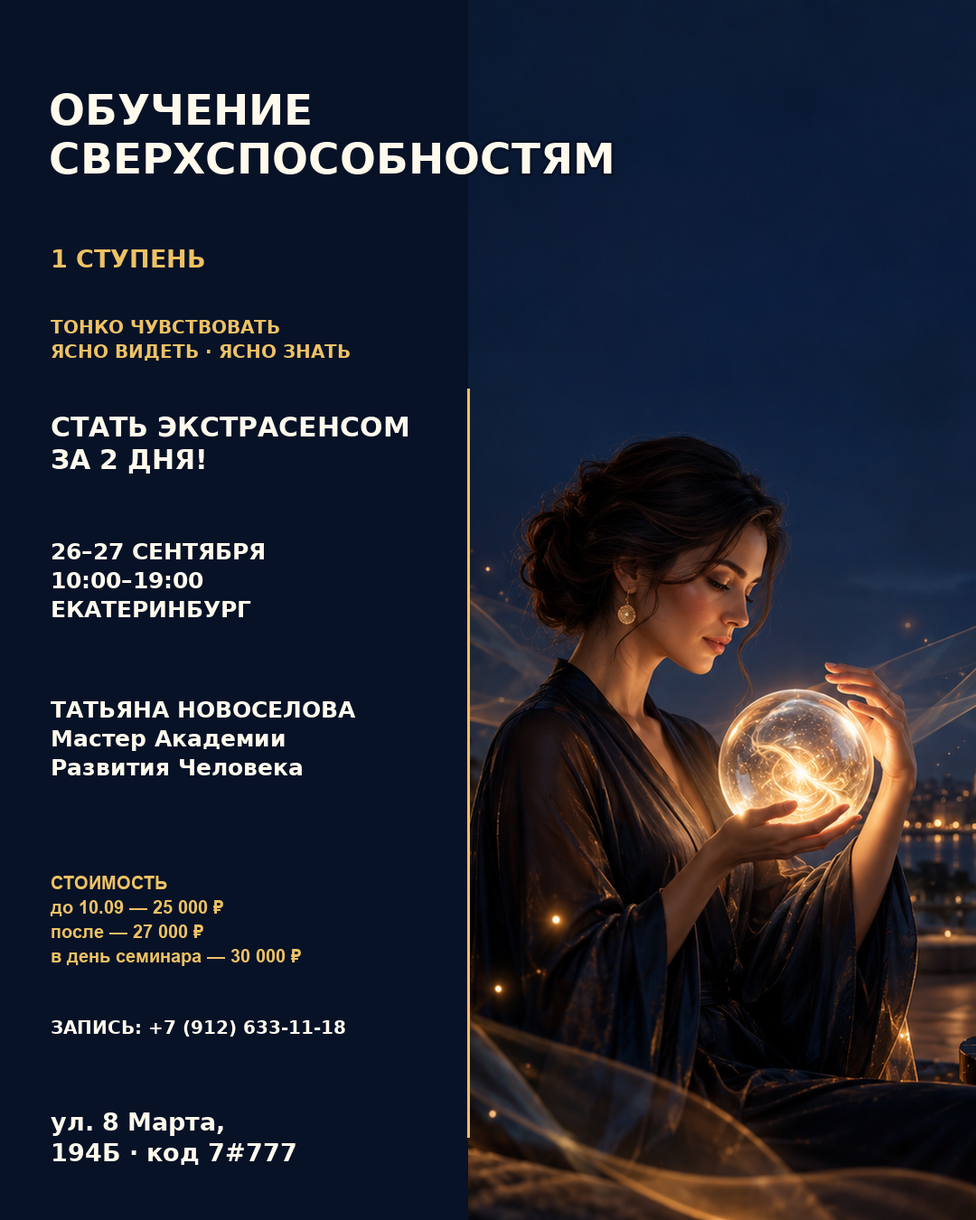
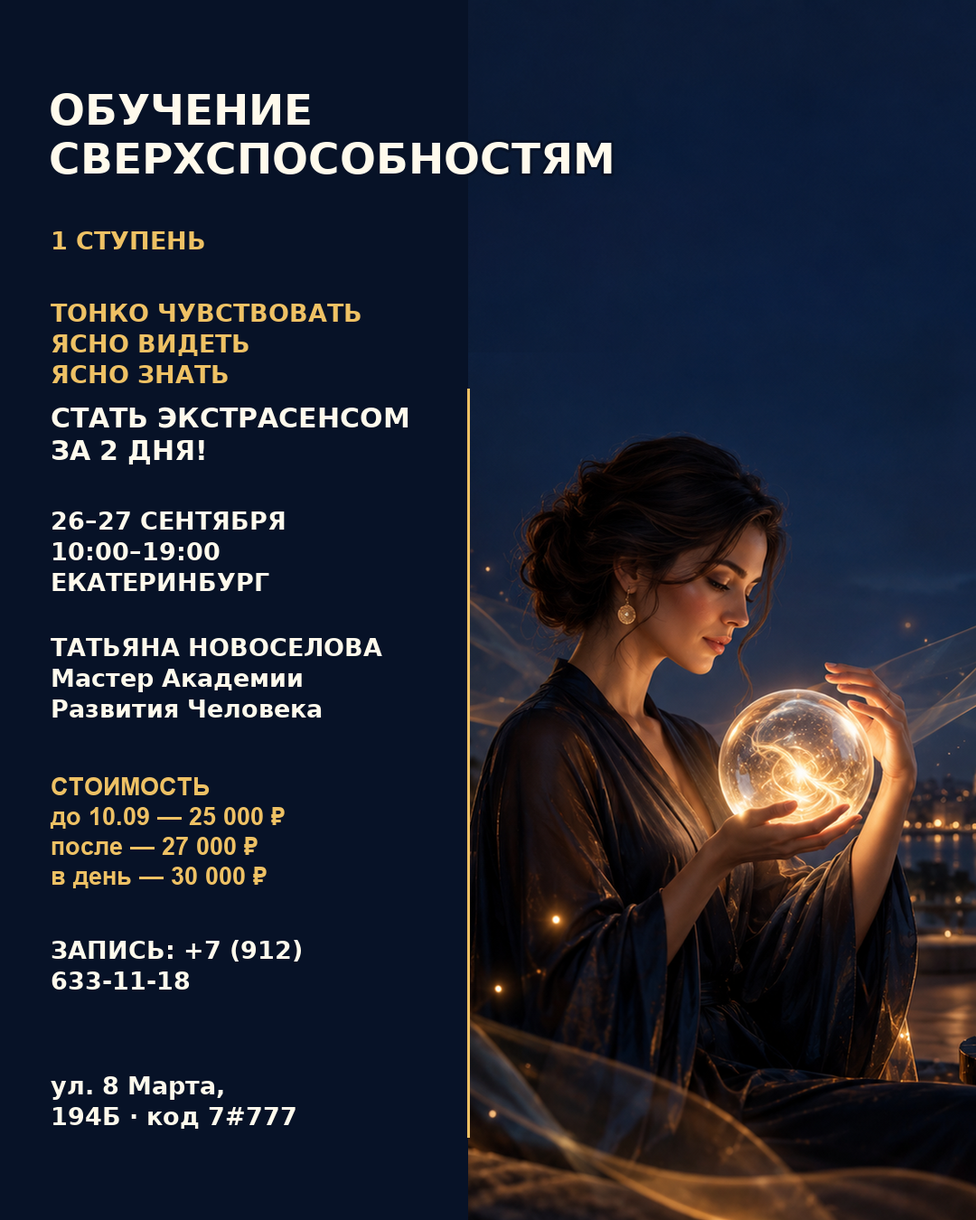
Raise informational poster minimum type size

Changed region(s): [[0.0306, 0.2489, 0.4278, 0.9644], [0.0306, 0.1867, 0.2139, 0.2178]]

diff --git a/scripts/build_layout_comparison_posters.py b/scripts/build_layout_comparison_posters.py
@@ -184,14 +184,14 @@ def diptych_headline_bleed() -> None:
     cream, amber, navy = (255, 250, 236, 255), (238, 193, 100, 255), (7, 18, 39, 255)
     draw.line((split, 430, split, 1258), fill=amber, width=3)
     text(draw, (54, 94), TITLE, 47, cream, stroke=navy, width=3)
-    text_in_column(draw, (56, 270), "1 СТУПЕНЬ", 27, amber, split - 18, stroke=navy, width=2)
-    text_in_column(draw, (56, 350), "ТОНКО ЧУВСТВОВАТЬ\nЯСНО ВИДЕТЬ · ЯСНО ЗНАТЬ", 20, amber, split - 18, stroke=navy, width=2)
-    text_in_column(draw, (56, 455), OFFER, 30, cream, split - 18, stroke=navy, width=2)
-    text_in_column(draw, (56, 595), "26–27 СЕНТЯБРЯ\n10:00–19:00\nЕКАТЕРИНБУРГ", 25, cream, split - 18, stroke=navy, width=2)
-    text_in_column(draw, (56, 770), "ТАТЬЯНА НОВОСЕЛОВА\nМастер Академии\nРазвития Человека", 25, cream, split - 18, stroke=navy, width=2)
-    text_in_column(draw, (56, 965), "СТОИМОСТЬ\nдо 10.09 — 25 000 ₽\nпосле — 27 000 ₽\nв день семинара — 30 000 ₽", 20, amber, split - 18, stroke=navy, width=2, typeface=CURRENCY_BOLD)
-    text_in_column(draw, (56, 1125), "ЗАПИСЬ: +7 (912) 633-11-18", 20, cream, split - 18, stroke=navy, width=2)
-    text_in_column(draw, (56, 1225), "ул. 8 Марта,\n194Б · код 7#777", 27, cream, split - 18, stroke=navy, width=2)
+    text_in_column(draw, (56, 250), "1 СТУПЕНЬ", 27, amber, split - 18, stroke=navy, width=2)
+    text_in_column(draw, (56, 330), "ТОНКО ЧУВСТВОВАТЬ\nЯСНО ВИДЕТЬ\nЯСНО ЗНАТЬ", 27, amber, split - 18, stroke=navy, width=2)
+    text_in_column(draw, (56, 445), OFFER, 30, cream, split - 18, stroke=navy, width=2)
+    text_in_column(draw, (56, 560), "26–27 СЕНТЯБРЯ\n10:00–19:00\nЕКАТЕРИНБУРГ", 27, cream, split - 18, stroke=navy, width=2)
+    text_in_column(draw, (56, 700), "ТАТЬЯНА НОВОСЕЛОВА\nМастер Академии\nРазвития Человека", 27, cream, split - 18, stroke=navy, width=2)
+    text_in_column(draw, (56, 855), "СТОИМОСТЬ\nдо 10.09 — 25 000 ₽\nпосле — 27 000 ₽\nв день — 30 000 ₽", 27, amber, split - 18, stroke=navy, width=2, typeface=CURRENCY_BOLD)
+    text_in_column(draw, (56, 1035), "ЗАПИСЬ: +7 (912)\n633-11-18", 27, cream, split - 18, stroke=navy, width=2)
+    text_in_column(draw, (56, 1185), "ул. 8 Марта,\n194Б · код 7#777", 27, cream, split - 18, stroke=navy, width=2)
     save(Image.alpha_composite(image, layer), "23-layout-diptych-headline-bleed.png")
 
 

diff --git a/.Codex/skills/event-media-visuals/SKILL.md b/.Codex/skills/event-media-visuals/SKILL.md
@@ -18,7 +18,7 @@ description: "Создаёт готовые для публикации изоб
    - символическая: магическая и образная, только если это уместно для темы; иначе — премиальная, предметная или природная интерпретация.
    Не повторяй между ними главный сюжет, ракурс, доминирующую палитру и действие.
 5. Сделай четвёртый, дополнительный визуал — отдельную 3D-стилизованную афишу в зацикленном GIF. Это самостоятельный четвёртый концепт, а не анимация одной из трёх статичных афиш. Специально выбери композицию, в которой есть минимум два естественно движущихся элемента: искры и объёмный свет для огня/металла; вода и туман; ткань и волосы на ветру; трава и солнечные блики; дым и мерцание. Если исходная тема не даёт таких элементов, построй сюжет вокруг уместного источника света, воздуха, воды или материалов — но не добавляй чужеродную магию. Не двигай картинку целиком, не делай зум, тряску или беспричинную анимацию. Текст и информационные плашки остаются неподвижными. GIF не содержит звук.
-6. В каждой афише используй единый порядок текста, но выбирай один из пяти режимов вёрстки и не повторяй его внутри статичной серии: (1) редакционная колонка — текст слева или справа на мягком контрастном градиенте, плавно встроенном в край изображения; (2) кинопостер — название в верхней трети, оффер под ним, дата и город в широкой нижней зоне; (3) текст в сцене — название и оффер встроены в свободную, контрастную часть сюжета или световую дугу, а технические данные собраны в устойчивой нижней зоне; (4) диптих — самостоятельные текстовая и визуальная части одной композиции. По умолчанию используй строгий диптих: весь текст остаётся в своей колонке, а изображение — в своей; ширину текстовой части подбирай под самый длинный заголовок. Разрешай главному заголовку пересечь границу только как отдельный приём «выход за границу»: линия-разделитель должна отсутствовать на участке заголовка, а за его буквами должен быть единый контрастный фон или градиент, объединяющий обе зоны. Оффер, дата, ведущий и адрес всегда остаются в текстовой колонке: разбивай их на короткие строки или уменьшай кегль до установленного минимального, но не выпускай за границу. Диптих может быть расширенным информационным форматом: если в исходнике подтверждены факты, добавляй в текстовую колонку цену, телефон записи и до трёх коротких продающих фраз; собирай их в компактные смысловые блоки, не в абзац. Перед сохранением измеряй фактические границы отрисованных строк с учётом обводки. Для визуальной части заранее оставляй область нужной пропорции и заполняй её только с сохранением пропорций исходного изображения, при необходимости кадрируя, но никогда не растягивая и не сжимая; (5) орбитальная композиция — герой или символ в центре, название и оффер по дуге или кольцу, технические данные в устойчивом нижнем блоке. Во всех режимах крупно — название события, максимум в две строки. Сразу под ним — главная мысль или оффер из исходника, в одну-две строки и заметно меньше названия. Средним кеглем — дата, время, город и ведущий, если он указан. Внизу — точный адрес. Цена, телефон, программа и остальные данные по умолчанию остаются в подписи к посту; добавляй их на афишу только по явной просьбе, кроме расширенного «Диптиха». На вертикальной афише 1080×1350 не используй шрифт меньше 25 px для блока ведущего и 27 px для адреса; на других размерах увеличивай пропорционально. Генерируй художественную основу без мелкого текста; точные строки накладывай отдельной вёрсткой, чтобы не было ошибок. Визуал должен занимать большую часть кадра.
+6. В каждой афише используй единый порядок текста, но выбирай один из пяти режимов вёрстки и не повторяй его внутри статичной серии: (1) редакционная колонка — текст слева или справа на мягком контрастном градиенте, плавно встроенном в край изображения; (2) кинопостер — название в верхней трети, оффер под ним, дата и город в широкой нижней зоне; (3) текст в сцене — название и оффер встроены в свободную, контрастную часть сюжета или световую дугу, а технические данные собраны в устойчивой нижней зоне; (4) диптих — самостоятельные текстовая и визуальная части одной композиции. По умолчанию используй строгий диптих: весь текст остаётся в своей колонке, а изображение — в своей; ширину текстовой части подбирай под самый длинный заголовок. Разрешай главному заголовку пересечь границу только как отдельный приём «выход за границу»: линия-разделитель должна отсутствовать на участке заголовка, а за его буквами должен быть единый контрастный фон или градиент, объединяющий обе зоны. Оффер, дата, ведущий и адрес всегда остаются в текстовой колонке: разбивай их на короткие строки или уменьшай кегль до установленного минимального, но не выпускай за границу. Диптих может быть расширенным информационным форматом: если в исходнике подтверждены факты, добавляй в текстовую колонку цену, телефон записи и до трёх коротких продающих фраз; собирай их в компактные смысловые блоки, не в абзац. В расширенном варианте ни один кегль не может быть меньше кегля адреса: на 1080×1350 это 27 px; перенос строк предпочтительнее уменьшения шрифта. Перед сохранением измеряй фактические границы отрисованных строк с учётом обводки. Для визуальной части заранее оставляй область нужной пропорции и заполняй её только с сохранением пропорций исходного изображения, при необходимости кадрируя, но никогда не растягивая и не сжимая; (5) орбитальная композиция — герой или символ в центре, название и оффер по дуге или кольцу, технические данные в устойчивом нижнем блоке. Во всех режимах крупно — название события, максимум в две строки. Сразу под ним — главная мысль или оффер из исходника, в одну-две строки и заметно меньше названия. Средним кеглем — дата, время, город и ведущий, если он указан. Внизу — точный адрес. Цена, телефон, программа и остальные данные по умолчанию остаются в подписи к посту; добавляй их на афишу только по явной просьбе, кроме расширенного «Диптиха». На вертикальной афише 1080×1350 не используй шрифт меньше 27 px для любого информационного блока; на других размерах увеличивай пропорционально. Генерируй художественную основу без мелкого текста; точные строки накладывай отдельной вёрсткой, чтобы не было ошибок. Визуал должен занимать большую часть кадра.
 7. Если исходник длинный — больше 700 знаков либо содержит больше пяти существенных фактов — подготовь ещё три самостоятельных поста: для Telegram, ВК и MAX. Адаптируй структуру, но не искажай факты. Умеренно используй эмодзи: для навигации и акцентов, не в каждой строке.
 8. Перед выдачей проверь все четыре файла: формат и размеры, читаемость на уменьшенном до 540 px превью — в том числе адреса и блока ведущего без увеличения, — порядок текстовых уровней, отсутствие обрезанного текста, бессмысленных надписей, водяных знаков и деформированных рук/лиц. Сверь напечатанный текст с исходными данными. При провале проверки исправь результат до выдачи.
 
@@ -43,6 +43,7 @@ description: "Создаёт готовые для публикации изоб
 - Не размещай информационные строки мелким разрозненным текстом и не собирай весь текст в большую прямоугольную карточку; используй крупную интегрированную текстовую колонку с градиентом, если пользователь не указал другой стиль.
 - В режиме «Диптих» не деформируй визуальную часть: масштабируй пропорционально и кадрируй под выделенное место, а не сжимай или растягивай её по одной оси.
 - В строгом «Диптихе» ни одна строка текста не пересекает границу текстовой и визуальной частей. В варианте «выход за границу» это разрешено только главному заголовку; оффер, дата, ведущий и адрес обязаны помещаться в колонке. Проверяй это по фактическим границам отрисованного текста, включая обводку, а не на глаз.
+- В расширенном «Диптихе» не уменьшай цену, телефон или продающие фразы ниже кегля адреса: переноси строки и перестраивай блоки по вертикали.
 - Не используй один и тот же персонаж, фон или композицию в трёх статичных вариантах.
 - Если приложена фотография человека и пользователь просит показать его, сохраняй узнаваемость и не подменяй личность другим человеком.
 - Не добавляй магические символы, религиозные мотивы или этнические орнаменты без опоры на тему или исходные материалы.

diff --git a/event-media-visuals-SKILL.md b/event-media-visuals-SKILL.md
@@ -18,7 +18,7 @@ description: "Создаёт готовые для публикации изоб
    - символическая: магическая и образная, только если это уместно для темы; иначе — премиальная, предметная или природная интерпретация.
    Не повторяй между ними главный сюжет, ракурс, доминирующую палитру и действие.
 5. Сделай четвёртый, дополнительный визуал — отдельную 3D-стилизованную афишу в зацикленном GIF. Это самостоятельный четвёртый концепт, а не анимация одной из трёх статичных афиш. Специально выбери композицию, в которой есть минимум два естественно движущихся элемента: искры и объёмный свет для огня/металла; вода и туман; ткань и волосы на ветру; трава и солнечные блики; дым и мерцание. Если исходная тема не даёт таких элементов, построй сюжет вокруг уместного источника света, воздуха, воды или материалов — но не добавляй чужеродную магию. Не двигай картинку целиком, не делай зум, тряску или беспричинную анимацию. Текст и информационные плашки остаются неподвижными. GIF не содержит звук.
-6. В каждой афише используй единый порядок текста, но выбирай один из пяти режимов вёрстки и не повторяй его внутри статичной серии: (1) редакционная колонка — текст слева или справа на мягком контрастном градиенте, плавно встроенном в край изображения; (2) кинопостер — название в верхней трети, оффер под ним, дата и город в широкой нижней зоне; (3) текст в сцене — название и оффер встроены в свободную, контрастную часть сюжета или световую дугу, а технические данные собраны в устойчивой нижней зоне; (4) диптих — самостоятельные текстовая и визуальная части одной композиции. По умолчанию используй строгий диптих: весь текст остаётся в своей колонке, а изображение — в своей; ширину текстовой части подбирай под самый длинный заголовок. Разрешай главному заголовку пересечь границу только как отдельный приём «выход за границу»: линия-разделитель должна отсутствовать на участке заголовка, а за его буквами должен быть единый контрастный фон или градиент, объединяющий обе зоны. Оффер, дата, ведущий и адрес всегда остаются в текстовой колонке: разбивай их на короткие строки или уменьшай кегль до установленного минимального, но не выпускай за границу. Диптих может быть расширенным информационным форматом: если в исходнике подтверждены факты, добавляй в текстовую колонку цену, телефон записи и до трёх коротких продающих фраз; собирай их в компактные смысловые блоки, не в абзац. Перед сохранением измеряй фактические границы отрисованных строк с учётом обводки. Для визуальной части заранее оставляй область нужной пропорции и заполняй её только с сохранением пропорций исходного изображения, при необходимости кадрируя, но никогда не растягивая и не сжимая; (5) орбитальная композиция — герой или символ в центре, название и оффер по дуге или кольцу, технические данные в устойчивом нижнем блоке. Во всех режимах крупно — название события, максимум в две строки. Сразу под ним — главная мысль или оффер из исходника, в одну-две строки и заметно меньше названия. Средним кеглем — дата, время, город и ведущий, если он указан. Внизу — точный адрес. Цена, телефон, программа и остальные данные по умолчанию остаются в подписи к посту; добавляй их на афишу только по явной просьбе, кроме расширенного «Диптиха». На вертикальной афише 1080×1350 не используй шрифт меньше 25 px для блока ведущего и 27 px для адреса; на других размерах увеличивай пропорционально. Генерируй художественную основу без мелкого текста; точные строки накладывай отдельной вёрсткой, чтобы не было ошибок. Визуал должен занимать большую часть кадра.
+6. В каждой афише используй единый порядок текста, но выбирай один из пяти режимов вёрстки и не повторяй его внутри статичной серии: (1) редакционная колонка — текст слева или справа на мягком контрастном градиенте, плавно встроенном в край изображения; (2) кинопостер — название в верхней трети, оффер под ним, дата и город в широкой нижней зоне; (3) текст в сцене — название и оффер встроены в свободную, контрастную часть сюжета или световую дугу, а технические данные собраны в устойчивой нижней зоне; (4) диптих — самостоятельные текстовая и визуальная части одной композиции. По умолчанию используй строгий диптих: весь текст остаётся в своей колонке, а изображение — в своей; ширину текстовой части подбирай под самый длинный заголовок. Разрешай главному заголовку пересечь границу только как отдельный приём «выход за границу»: линия-разделитель должна отсутствовать на участке заголовка, а за его буквами должен быть единый контрастный фон или градиент, объединяющий обе зоны. Оффер, дата, ведущий и адрес всегда остаются в текстовой колонке: разбивай их на короткие строки или уменьшай кегль до установленного минимального, но не выпускай за границу. Диптих может быть расширенным информационным форматом: если в исходнике подтверждены факты, добавляй в текстовую колонку цену, телефон записи и до трёх коротких продающих фраз; собирай их в компактные смысловые блоки, не в абзац. В расширенном варианте ни один кегль не может быть меньше кегля адреса: на 1080×1350 это 27 px; перенос строк предпочтительнее уменьшения шрифта. Перед сохранением измеряй фактические границы отрисованных строк с учётом обводки. Для визуальной части заранее оставляй область нужной пропорции и заполняй её только с сохранением пропорций исходного изображения, при необходимости кадрируя, но никогда не растягивая и не сжимая; (5) орбитальная композиция — герой или символ в центре, название и оффер по дуге или кольцу, технические данные в устойчивом нижнем блоке. Во всех режимах крупно — название события, максимум в две строки. Сразу под ним — главная мысль или оффер из исходника, в одну-две строки и заметно меньше названия. Средним кеглем — дата, время, город и ведущий, если он указан. Внизу — точный адрес. Цена, телефон, программа и остальные данные по умолчанию остаются в подписи к посту; добавляй их на афишу только по явной просьбе, кроме расширенного «Диптиха». На вертикальной афише 1080×1350 не используй шрифт меньше 27 px для любого информационного блока; на других размерах увеличивай пропорционально. Генерируй художественную основу без мелкого текста; точные строки накладывай отдельной вёрсткой, чтобы не было ошибок. Визуал должен занимать большую часть кадра.
 7. Если исходник длинный — больше 700 знаков либо содержит больше пяти существенных фактов — подготовь ещё три самостоятельных поста: для Telegram, ВК и MAX. Адаптируй структуру, но не искажай факты. Умеренно используй эмодзи: для навигации и акцентов, не в каждой строке.
 8. Перед выдачей проверь все четыре файла: формат и размеры, читаемость на уменьшенном до 540 px превью — в том числе адреса и блока ведущего без увеличения, — порядок текстовых уровней, отсутствие обрезанного текста, бессмысленных надписей, водяных знаков и деформированных рук/лиц. Сверь напечатанный текст с исходными данными. При провале проверки исправь результат до выдачи.
 
@@ -43,6 +43,7 @@ description: "Создаёт готовые для публикации изоб
 - Не размещай информационные строки мелким разрозненным текстом и не собирай весь текст в большую прямоугольную карточку; используй крупную интегрированную текстовую колонку с градиентом, если пользователь не указал другой стиль.
 - В режиме «Диптих» не деформируй визуальную часть: масштабируй пропорционально и кадрируй под выделенное место, а не сжимай или растягивай её по одной оси.
 - В строгом «Диптихе» ни одна строка текста не пересекает границу текстовой и визуальной частей. В варианте «выход за границу» это разрешено только главному заголовку; оффер, дата, ведущий и адрес обязаны помещаться в колонке. Проверяй это по фактическим границам отрисованного текста, включая обводку, а не на глаз.
+- В расширенном «Диптихе» не уменьшай цену, телефон или продающие фразы ниже кегля адреса: переноси строки и перестраивай блоки по вертикали.
 - Не используй один и тот же персонаж, фон или композицию в трёх статичных вариантах.
 - Если приложена фотография человека и пользователь просит показать его, сохраняй узнаваемость и не подменяй личность другим человеком.
 - Не добавляй магические символы, религиозные мотивы или этнические орнаменты без опоры на тему или исходные материалы.
